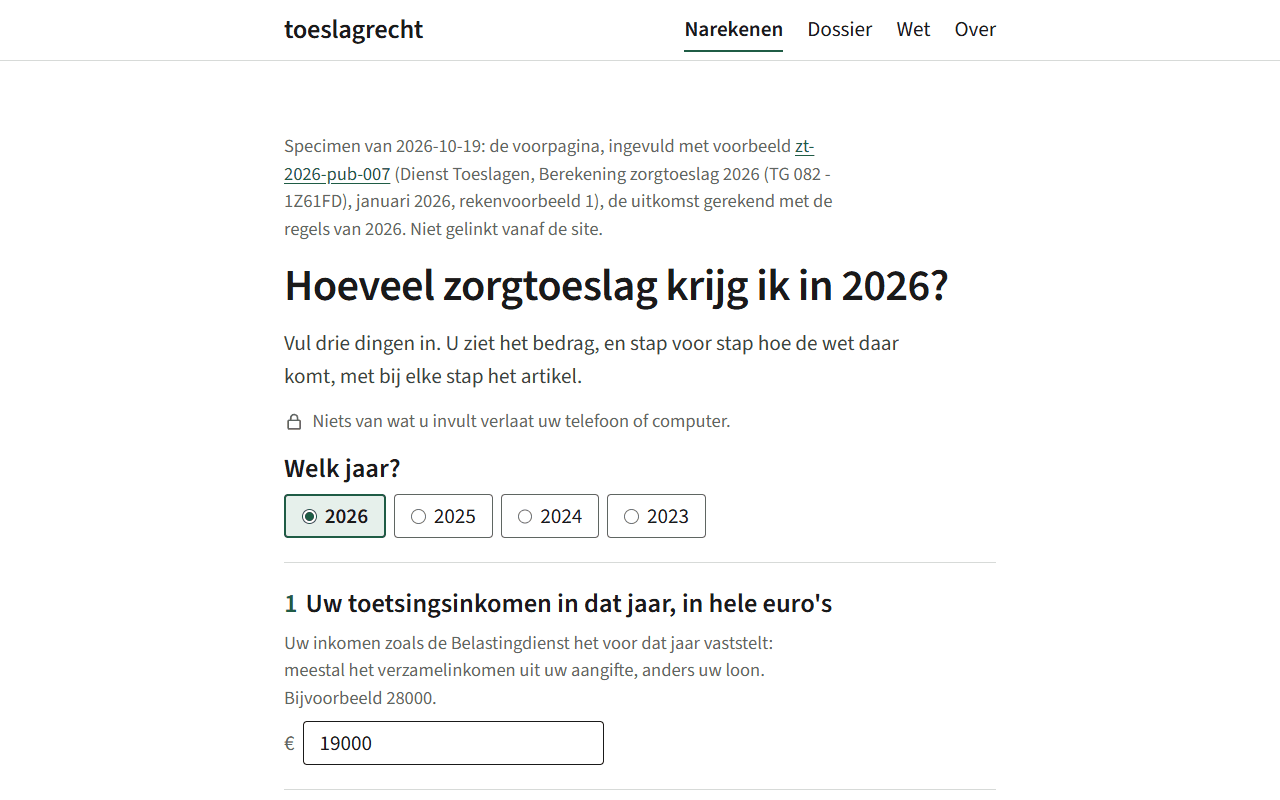
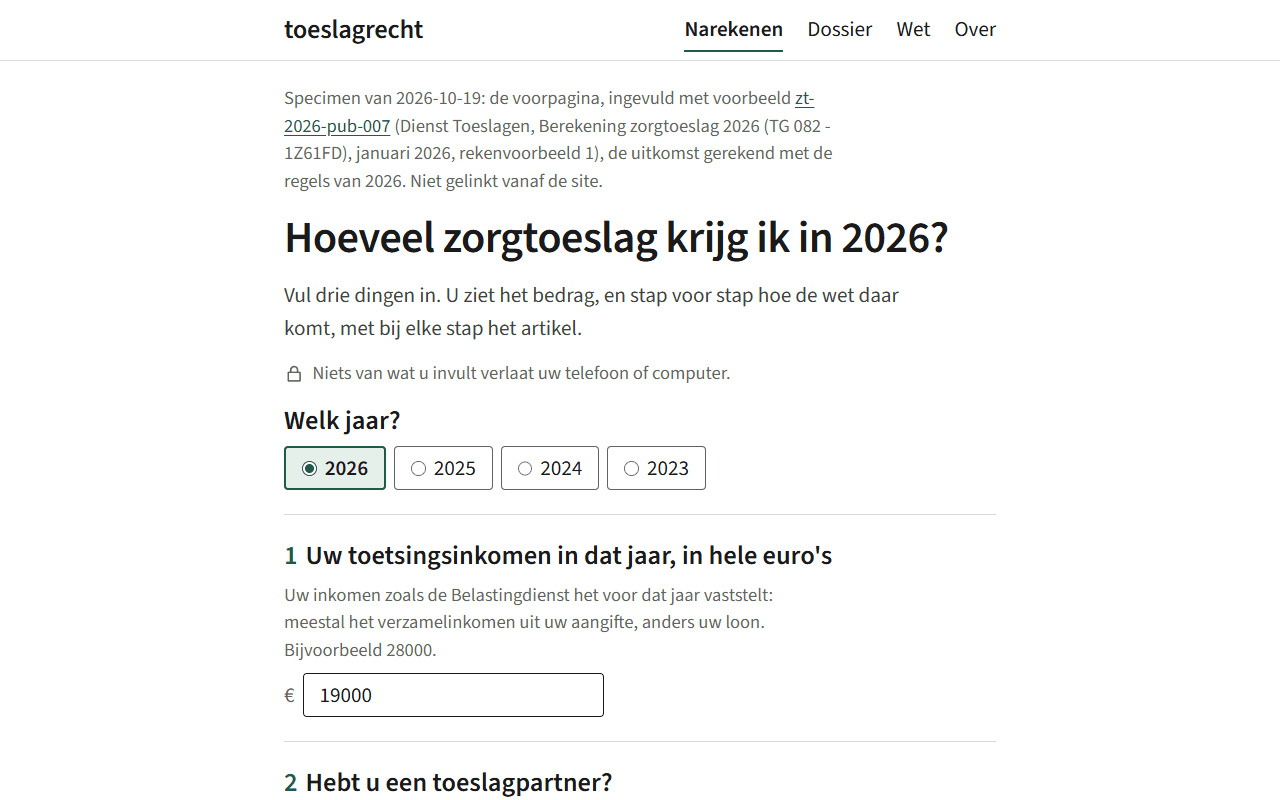
design: the space above the page title equals the space above a field (--kop-ruimte = --s-3; owner, 2026-10-20)

diff --git a/site/static/tokens.css b/site/static/tokens.css
@@ -38,7 +38,7 @@
   --page-wide: 1040px;       /* dossier index pages may use it */
   --gutter: 1.5rem;          /* 1rem under 400px */
   --s-1: 0.5rem; --s-2: 1rem; --s-3: 1.5rem; --s-4: 2rem; --s-5: 3rem; --s-6: 4rem;
-  --kop-ruimte: 4.5rem;      /* the space between the menu's hairline and the page title; owner, 2026-10-20 */
+  --kop-ruimte: var(--s-3);  /* the space between the menu's hairline and the page title: the same as above a field; owner, 2026-10-20 */
   --radius: 4px;
   --target: 44px;            /* minimum height of anything tappable; WCAG 2.2 asks 24, the form gets 44 */
   --hairline: 1px;
@@ -53,5 +53,4 @@
   --pad-knop: 1.75rem;       /* the button's side padding (28px) */
   --mono: ui-monospace, 'Cascadia Mono', Consolas, monospace;   /* code in the dossier only */
 }
-@media (max-width: 720px) { :root { --kop-ruimte: 3rem; } }
 @media (max-width: 400px) { :root { --gutter: 1rem; } }
